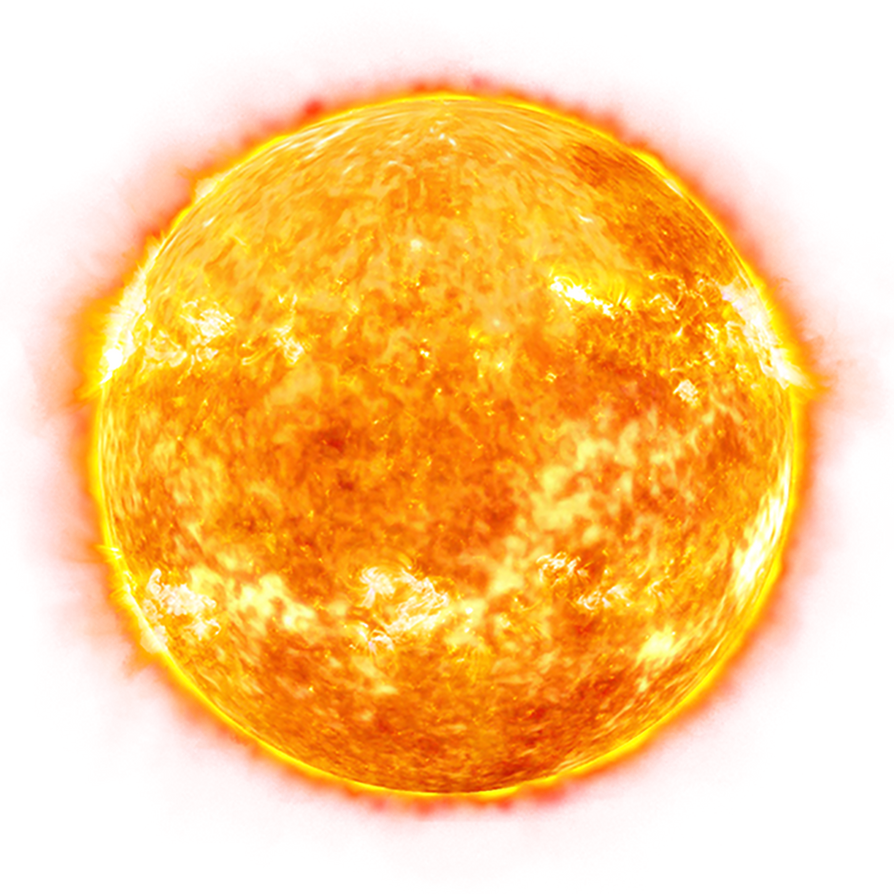
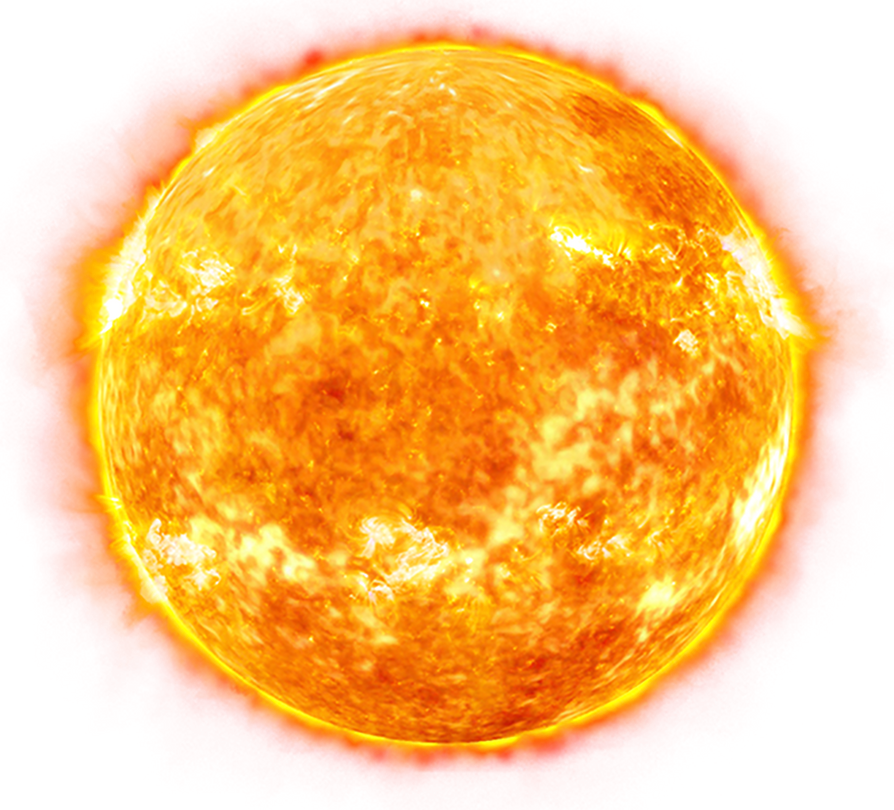
tile pictures

diff --git a/assets/css/styles.css b/assets/css/styles.css
@@ -123,46 +123,48 @@ body {
 }
 .void-tile {
   background-image: url("../img/void.png");
+  background-size: cover;
 }
 .jptmoons-tile {
-  background-image: url("../img/mars.png");
+  background-image: url("../img/jptmoons.png");
 }
 .saturn-tile {
   background-image: url("../img/saturn.png");
 }
 .stnmoons-tile {
-  background-image: url("../img/mars.png");
+  background-image: url("../img/stnmoons.png");
 }
 .uranus-tile {
   background-image: url("../img/uranus.png");
 }
 .oxygen-tile {
-  background-image: url("../img/mars.png");
+  background-image: url("../img/oxygen.png");
 }
 .ice-tile {
-  background-image: url("../img/mars.png");
+  background-image: url("../img/ice.png");
 }
 .neptune-tile {
   background-image: url("../img/neptune.png");
 }
 .kuiper-tile {
-  background-image: url("../img/mars.png");
+  background-image: url("../img/kuiper.png");
 }
 .pluto-tile {
   background-image: url("../img/pluto.png");
 }
 .blackhole-tile {
-  background-image: url("../img/void.png");
+  background-image: url("../img/blackhole.png");
+  background-size: cover;
 }
 .andromeda-tile {
   background-image: url("../img/andromeda.png");
 }
-.venus-tile {
-  background-image: url("../img/venus.png");
+.sun-tile {
+  background-image: url("../img/sun.png");
 }
 .mercury-tile {
   background-image: url("../img/mercury.png");
 }
-.sun-tile {
-  background-image: url("../img/sun.png");
+.venus-tile {
+  background-image: url("../img/venus.png");
 }

diff --git a/assets/js/main.js b/assets/js/main.js
@@ -31,26 +31,26 @@ function openCard(tileNumber) {
 
 function openCard(tileNumber) {
   const messages = {
-    1: "BLACK HOLE VOID: You got sucked into a black hole. Consequences of journeying through deep dark space. Spacetime is warping, time is lost. At least you're not spending more money.",
+    1: "BLACK HOLE VOID: You got sucked into a black hole. Consequences of trying to conquer the infinite. Spacetime is warping, time is lost. At least you're not spending more money.",
     2: "JUPITER MOONS: Buy a few moons, just because you can. They weren't yours, but now you can feel like they are. In reality, nothing has changed.",
     3: "SATURN: You reach Saturn. You can't get through its massive rings of ice and rock. You were here, but nobody will know. You could return home, but nobody will believe you. Conquer on.",
     4: "SATURN MOONS: Jupiter moons weren't enough to satisfy you. Buy a few more, maybe you'll feel accomplished then.",
-    5: "URANUS: You've traveled so far you have reached Uranus. A distant, humongous, icy giant indifferent to your presence.",
+    5: "URANUS: Your expansion traveled so far you have reached Uranus. A distant, humongous, icy giant indifferent to your presence. Its cold, dark, and lonely, will you ever return home?",
     6: "OXYGEN LOSS: Malfunction on your spaceship. Oxygen tanks lost. You face rapid asphyxiation and unconsciousness within 10 seconds.",
-    7: "URANUS ICE EXTRACTION: Using very rare and expensive technology, you extract the icy materials of the planet as proof of your greatness. Too bad it'll probably melt by the time you can show people.",
+    7: "URANUS ICE EXTRACTION: Using very rare and expensive technology, you extract the icy materials of the planet as proof of your greatness. Too bad it'll probably melt by the time you travel home.",
     8: "NEPTUNE: So far away from home, it's dark and cold as ice. The supersonic winds stop you from trekking in deeper. A single orbit takes roughly 165 Earth years. Move on, or be stuck for the rest of your life.",
     9: "KUIPER BELT: Your expidition drifts off to far distances, many resources spent in the process. In the Kuiper Belt, remnants of icy planet leftovers float. A debris field of the forgotten, you are among fragments of nothing.",
     10: "PLUTO: You see Pluto, the once beloved planet, stripped of its planethood and left alone as a ghost asset. You have more in common than you think. Claim Pluto as your own, maybe people will care again.",
-    11: "BLACK HOLE: You've reached a black hole. Gravity collapses all around you. Falling into the endless trapped void.",
+    11: "BLACK HOLE: You're near a black hole. It sucks you in, gravity collapses all around you. Falling into the trapped void.",
     12: "ANDROMEDA GALAXY: You've spent so much time conquering the Milky Way, why stop there? There is no entry to Andromeda, yet. Invest money to have the first expedition.",
-    13: "VENUS: Earth's hot next door neighbor, but not a friendly one. The atmosphere is too thick and too toxic for survival. That won't stop you from conquering the rocky landscape, pay to name volcanoes after yourself.",
+    13: "THE SUN: Flew too close to the sun. You try to attain an eternal energy source, but even your expansion cannot conquer the power of nuclear heat.",
     14: "MERCURY: The first planet, but also the smallest. Add it to the collection anyway. You are so close to the sun, temperatures are too extreme and depleting resources.",
-    15: "THE SUN: Flew too close to the sun. You try to attain an eternal energy source, but even your expansion cannot conquer the power of nuclear heat.",
+    15: "VENUS: Earth's hot next door neighbor, but not a friendly one. The atmosphere is too thick and too toxic for survival. That won't stop you from conquering the rocky landscape, pay to name volcanoes after yourself.",
     16: "LAUNCH ORIGIN: You set off to conquer beyond the world. Why not, you have the money. But what do you really own? What are you losing? Consider this, and continue on.",
-    17: "MOON LANDING: Pit stop on the moon. You're not the first person here, but people will know you. Buy the dark side and name it after yourself. The dark side of the moon is now yours, theoretically.",
-    18: "MARS: You land on the red planet. You claim the area for possible future construction. But no life is viable here, so you wasted your money.",
+    17: "MOON LANDING: Pit stop on the moon. You're not the first person here, but people will know you. Spend money to name the dark side after yourself. The dark side of the moon is now yours, theoretically.",
+    18: "MARS: You land on the red planet. You claim the area for possible future construction. But no life is viable here, guess you wasted your money.",
     19: "ASTEROID BELT: On your way to Jupiter, you must cross and conquer the asteroid belt. But you're rich, buy your way through. Many resources spent to pass the rocky bodies.",
-    20: "JUPITER: You finally make it to the gas giant. Storms raging below, you cannot stand on it. You trademark your visit as proof. More money wasted for false progress."
+    20: "JUPITER: You finally make it to the gas giant. Storms raging below, you cannot stand on it. You've came so far, but there is still so much beyond. Will the expidition ever be enough?"
   };
 
   const fullText = messages[tileNumber] || "Unknown region in space.";

diff --git a/index.html b/index.html
@@ -80,9 +80,9 @@
 
 	<div class="tile blackhole-tile" onclick="openCard(11)"></div>
 	<div class="tile andromeda-tile" onclick="openCard(12)"></div>
-	<div class="tile venus-tile" onclick="openCard(13)"></div>
+	<div class="tile sun-tile" onclick="openCard(13)"></div>
 	<div class="tile mercury-tile" onclick="openCard(14)"></div>
-	<div class="tile sun-tile" onclick="openCard(15)"></div>
+	<div class="tile venus-tile" onclick="openCard(15)"></div>
 	<div class="tile launch-tile" onclick="openCard(16)"></div>
 
 	<div class="tile moon-tile" onclick="openCard(17)"></div>